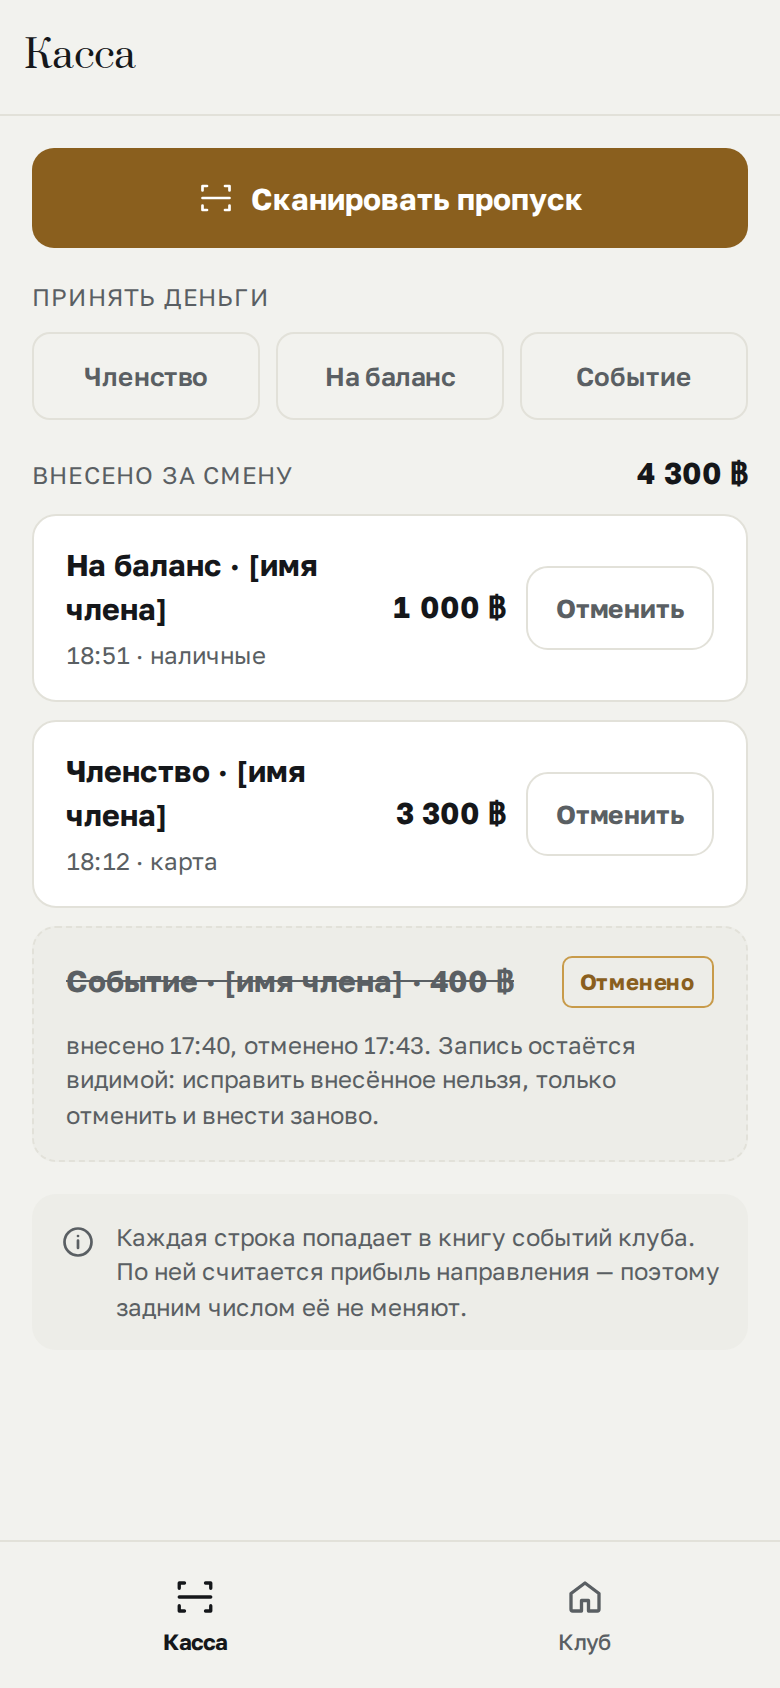
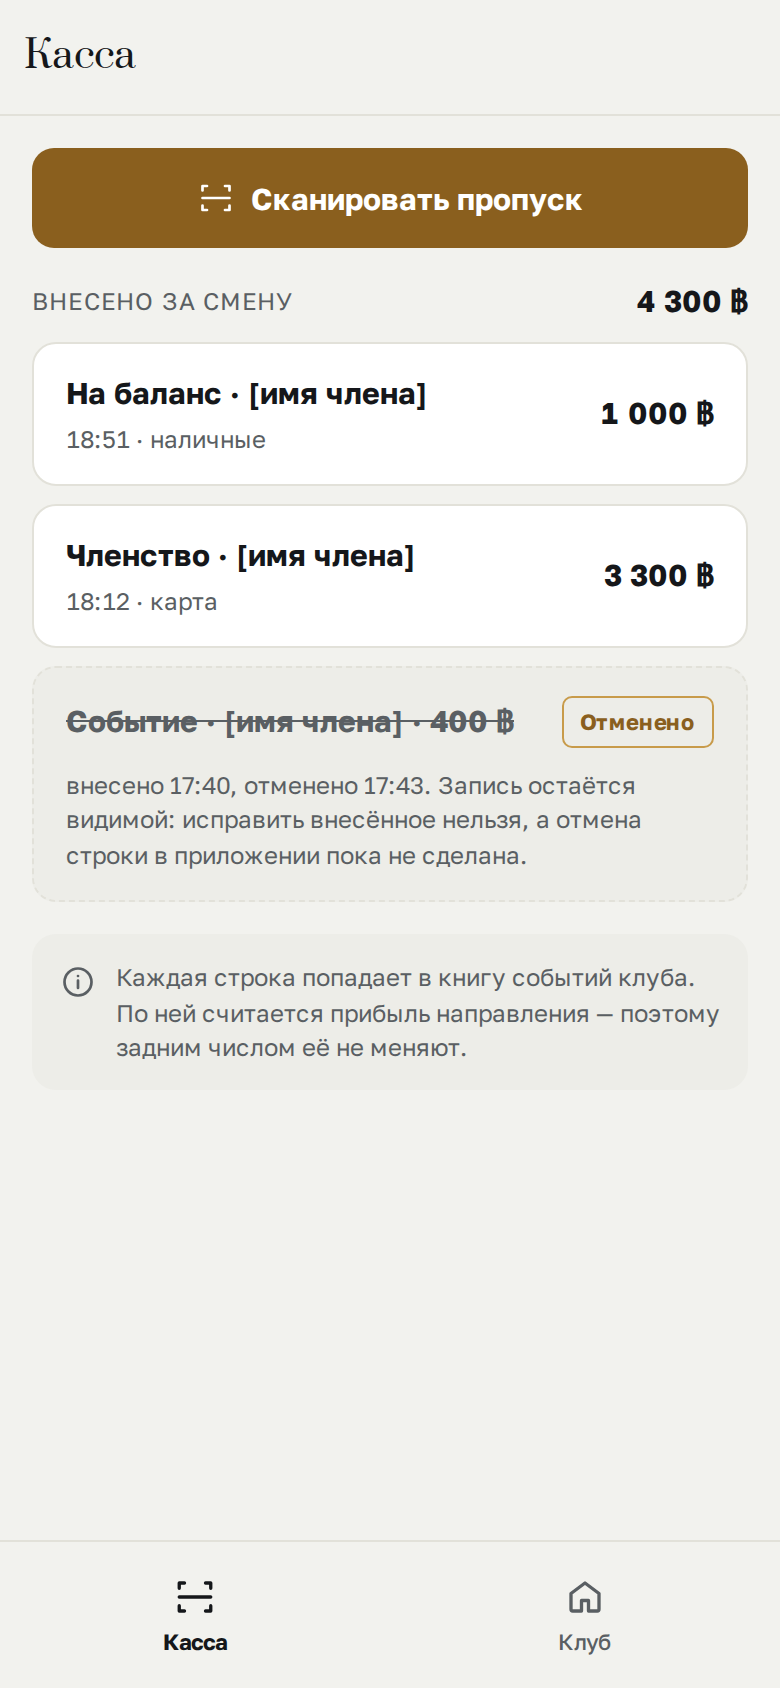
v48: в демо кассы нет кнопок без действия, приложение не советует отмену, которой в нём нет (Cafe13KPG#338, #340 шаг 1)
Демо кассы: ряд «Принять деньги: Членство / На баланс / Событие» и «Отменить»
у строк смены нажимались и не делали ничего. Вид приёма выбирается на карточке
найденного человека, как в живой кассе. Подпись группы «Касса» в описи укорочена
без новой формулировки.

Итог приёма (живая ветка) и отменённая строка в демо советовали «только отменить
и внести заново». Отмена на сервере есть, а кнопки в клиенте нет — теперь сказан
предел: «отмена строки в приложении пока не сделана». Кнопка — #340 шаг 2.

Батарея: случай demo-staff судит кнопки селектором, взятым из делегата кликов
в app.js; till-topup и demo-staff сторожат текст. Опись пересобрана под v48:
изменились ровно два кадра, 28-staff и 29-demo.

Claude-Session: https://claude.ai/code/session_019W92uwQVFPFJfmG2Kxcm9E

diff --git a/app.js b/app.js
@@ -36,7 +36,7 @@
    принят: мой вывод был шире замера). Замер — выложить номер, не меняя
    кнопки, и посмотреть номер в Telegram без перезапуска; до него кнопку
    трогают по слову devops5, а не по этой строке. */
-var VERSION = 'v47 · 25.10.2026';
+var VERSION = 'v48 · 26.10.2026';
 
 var tg = window.Telegram && window.Telegram.WebApp ? window.Telegram.WebApp : null;
 
@@ -837,7 +837,8 @@ function tillSend() {
         TP.who = now;
         var grew = kind !== 'topup' || !rec || Math.abs(rec.balance - who.balance - amt) < 0.005;
         TP.done = { kind: kind, text: 'Принято ' + money(amt) + ' ฿ ' + PAY_HOW[method],
-                    note: 'Строка ушла в книгу клуба. Исправить её задним числом нельзя — только отменить и внести заново.',
+                    note: 'Строка ушла в книгу клуба. Исправить её задним числом нельзя, а отмена строки в приложении пока не сделана.',
+                    // Отмена на сервере есть (POST /till/{id}/cancel), кнопки в клиенте нет — Cafe13KPG#340.
                     warn: grew ? '' : 'Остаток изменился не на эту сумму: было ' + money(who.balance) +
                                       ' ฿. Не вносите снова — сверьте с администратором клуба.' };
         haptic(grew ? 'ok' : 'warn');
@@ -3343,12 +3344,10 @@ var SCREENS = {
     }
     var total = DATA.shift.reduce(function (a, r) { return r.cancelled ? a : a + r.sum; }, 0);
     return (FLASH ? flash() : '') +
+      // Вид приёма выбирается на карточке найденного человека, как в живой
+      // кассе, а не здесь: ряд «Членство / На баланс / Событие» и «Отменить»
+      // у строк смены нажимались и не делали ничего (Cafe13KPG#338).
       '<button type="button" class="btn" data-action="scan">' + svg(ICON.till) + 'Сканировать пропуск</button>' +
-      '<div class="group"><span class="label">Принять деньги</span>' +
-        '<div class="seg">' +
-          '<button type="button">Членство</button><button type="button">На баланс</button><button type="button">Событие</button>' +
-        '</div>' +
-      '</div>' +
       '<div class="group">' +
         '<div class="row"><span class="label">Внесено за смену</span><b class="num">' + money(total) + ' ฿</b></div>' +
         DATA.shift.map(function (r) {
@@ -3356,15 +3355,12 @@ var SCREENS = {
             return '<div class="card cancelled">' +
               '<div class="row"><b class="strike">' + esc(r.what) + ' · ' + r.sum + ' ฿</b>' +
               '<span class="pill gold">Отменено</span></div>' +
-              '<span class="small">' + esc(r.when) + '. Запись остаётся видимой: исправить внесённое нельзя, только отменить и внести заново.</span>' +
+              '<span class="small">' + esc(r.when) + '. Запись остаётся видимой: исправить внесённое нельзя, а отмена строки в приложении пока не сделана.</span>' +
             '</div>';
           }
           return '<div class="card"><div class="row">' +
             '<div class="col"><b>' + esc(r.what) + '</b><span class="small num">' + esc(r.when) + '</span></div>' +
-            '<div style="display:flex;align-items:center;gap:10px">' +
-              '<b class="num">' + money(r.sum) + ' ฿</b>' +
-              '<button type="button" class="btn quiet">Отменить</button>' +
-            '</div></div></div>';
+            '<b class="num">' + money(r.sum) + ' ฿</b></div></div>';
         }).join('') +
       '</div>' +
       '<div class="note">' + svg(ICON.info) +

diff --git a/index.html b/index.html
@@ -6,7 +6,7 @@
 <title>Café XIII — клуб</title>
 <script src="https://telegram.org/js/telegram-web-app.js"></script>
 <link rel="stylesheet" href="https://fonts.googleapis.com/css2?family=Prata&family=Golos+Text:wght@400;500;600;700&display=swap">
-<link rel="stylesheet" href="styles.css?v=47">
+<link rel="stylesheet" href="styles.css?v=48">
 </head>
 <body>
 
@@ -22,6 +22,6 @@
 <nav class="tabs" id="tabs"></nav>
 
 <script src="vendor/qrcode-1.4.4.js"></script>
-<script src="app.js?v=47"></script>
+<script src="app.js?v=48"></script>
 </body>
 </html>

diff --git a/tools/catalog.py b/tools/catalog.py
@@ -12,7 +12,7 @@
 """
 import io, json, os, sys
 
-VERSION = 'v47 · 25.10.2026'
+VERSION = 'v48 · 26.10.2026'
 LIVE = 'https://anatoly9837-lab.github.io/cafe13-miniapp/'
 
 GROUPS = {
@@ -24,7 +24,7 @@ GROUPS = {
     'Бар · куратор': 'Кабинет куратора: деньги месяца, доля клуба, состояние меню.',
     'Мастер': 'Член клуба, который проводит свои мероприятия и сам назначает их цену.',
     'Бизнес-партнёр': 'Член клуба со своим направлением внутри клуба и его отчётностью.',
-    'Касса': 'Работник: сканировать пропуск, внести деньги, отменить внесённое.',
+    'Касса': 'Работник: сканировать пропуск, внести деньги.',
     'Служебное': 'Экран под солнышком. Кнопка солнышка есть только у god и god_mentor в Telegram; вне Telegram её нет ни у кого. Снимок — тот же экран в демонстрации.',
     'Ночная тема': 'Тему задаёт Telegram, а не приложение. Ночные цвета сняты с вечернего света места.',
 }
